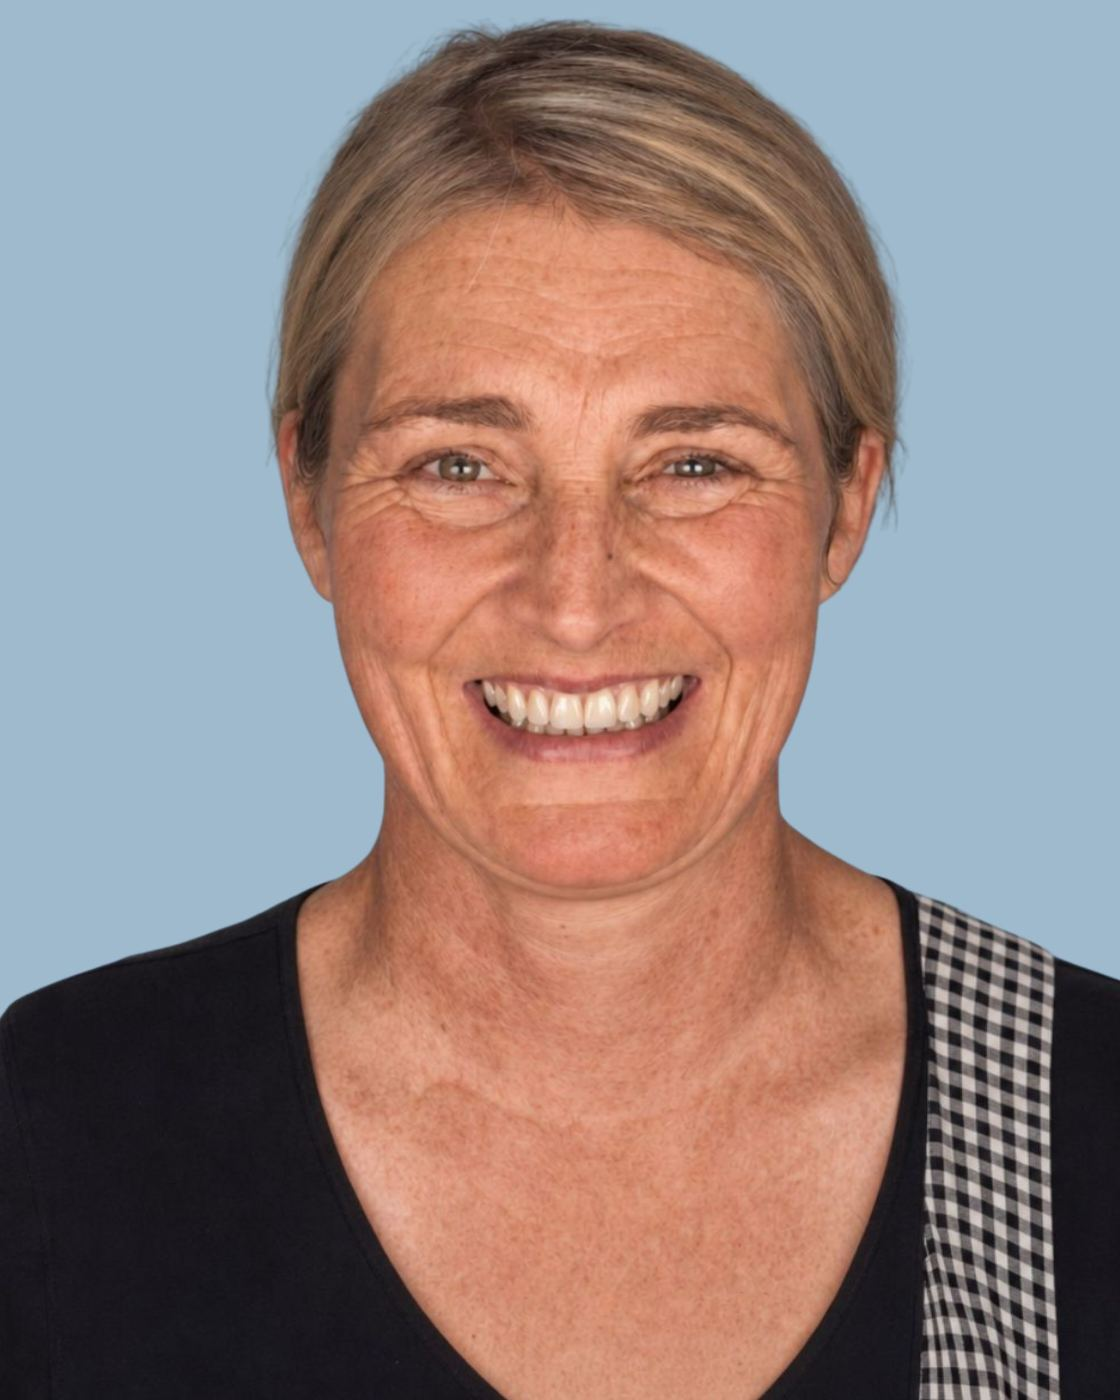
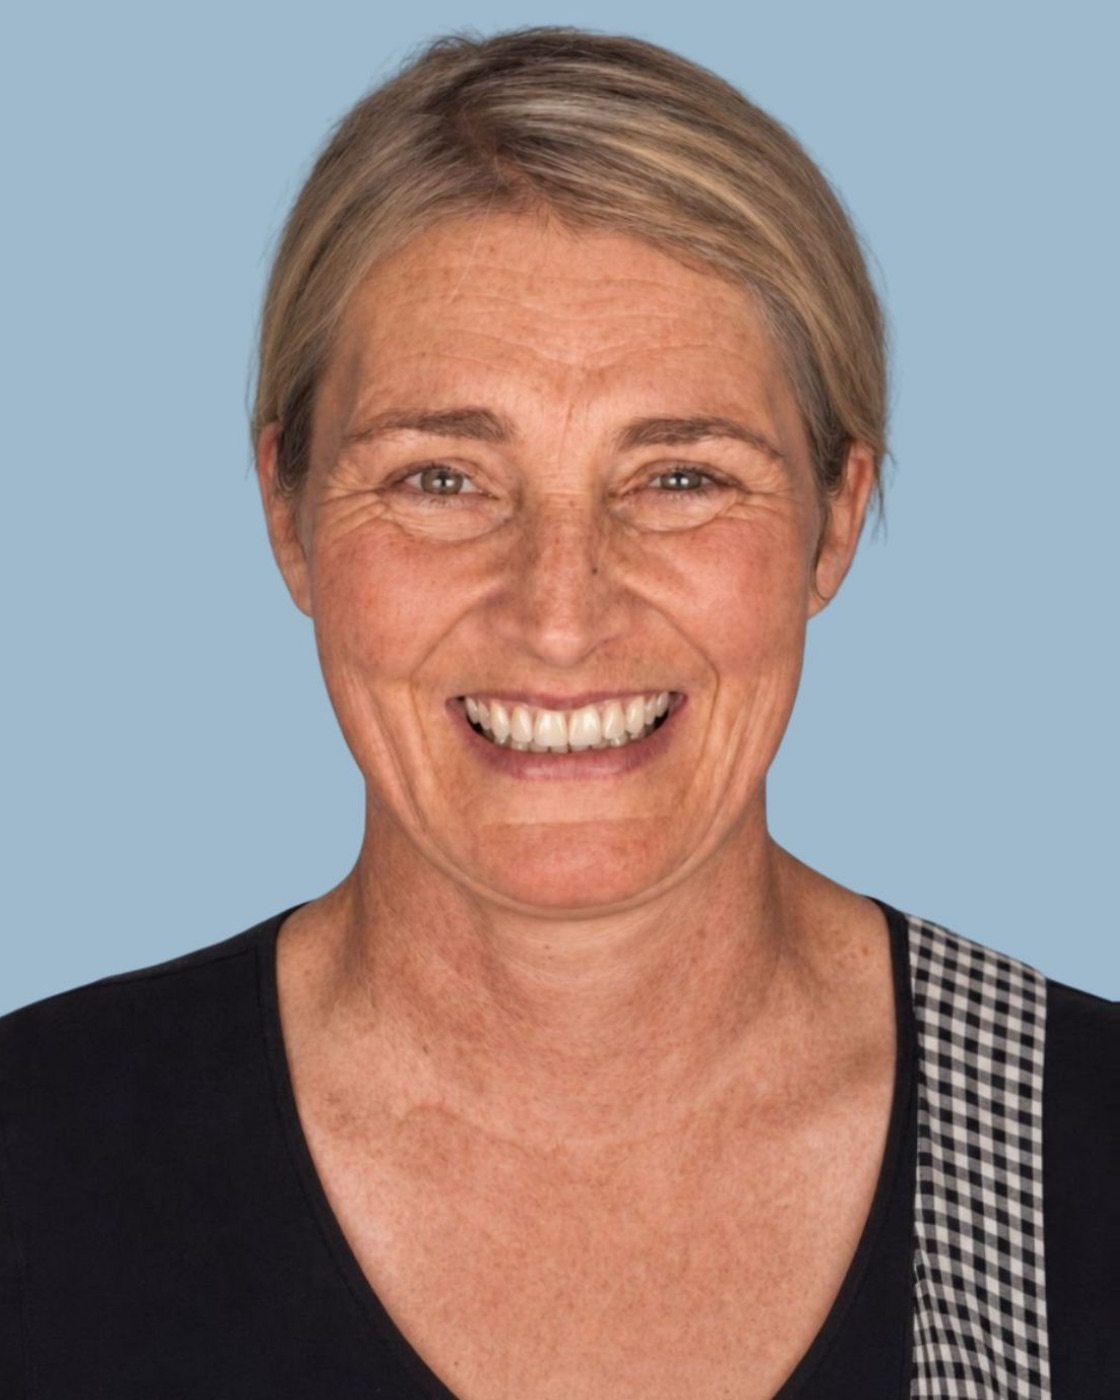
Alinear fotos antes/después de los sliders
Las fotos "después" venían con la cara desplazada y a otra escala
respecto de las "antes", así que la línea del slider cortaba ojos,
pelo y barba. Se re-encuadraron (escala + traslación medidas sobre
ojos, pelo y orejas) para coincidir con la foto "antes", y ambas capas
del slider usan ahora el mismo object-position.

diff --git a/src/components/Landing.jsx b/src/components/Landing.jsx
@@ -785,7 +785,7 @@ function Transformations() {
         </div>
         {/* Comparador antes/proyección */}
         <div className="trans-card" style={{ minHeight: 560 }}>
-          <BeforeAfter beforeId="trans-2m-before" afterId="trans-2m-after" beforeSrc={RES.r27_trans_2_before_jpg} afterSrc={RES.r28_trans_2_after_jpg} beforePos="58% 30%" afterPos="58% 24%" height="100%" radius={22} />
+          <BeforeAfter beforeId="trans-2m-before" afterId="trans-2m-after" beforeSrc={RES.r27_trans_2_before_jpg} afterSrc={RES.r28_trans_2_after_jpg} imgPos="58% 30%" height="100%" radius={22} />
         </div>
       </div>
     </section>);

diff --git a/src/resources.js b/src/resources.js
@@ -15,7 +15,7 @@ import r12_logo_sf_black_png from "./assets/img/logo-sf-black.png";
 import r14_trans_1_before_jpg from "./assets/img/trans-1-before.jpg";
 import r15_trans_1_after_jpg from "./assets/img/trans-1-after.jpg";
 import r16_preview_before_png from "./assets/img/preview-before.webp";
-import r17_preview_after_png from "./assets/img/preview-after.webp";
+import r17_preview_after_png from "./assets/img/preview-after.jpg";
 import r18_logo_nobel_jpg from "./assets/img/logo-nobel.jpg";
 import r19_logo_bracamonte_png from "./assets/img/logo-bracamonte.png";
 import r20_logo_templo_png from "./assets/img/logo-templo.png";
